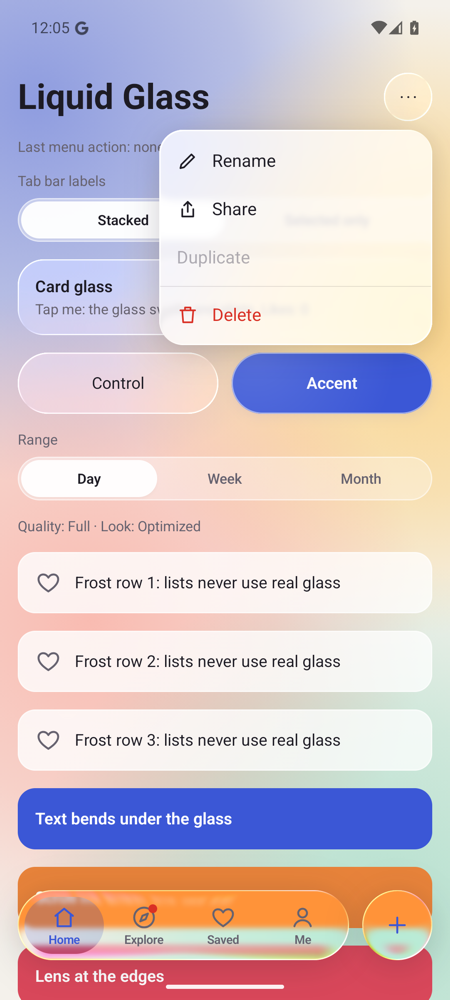
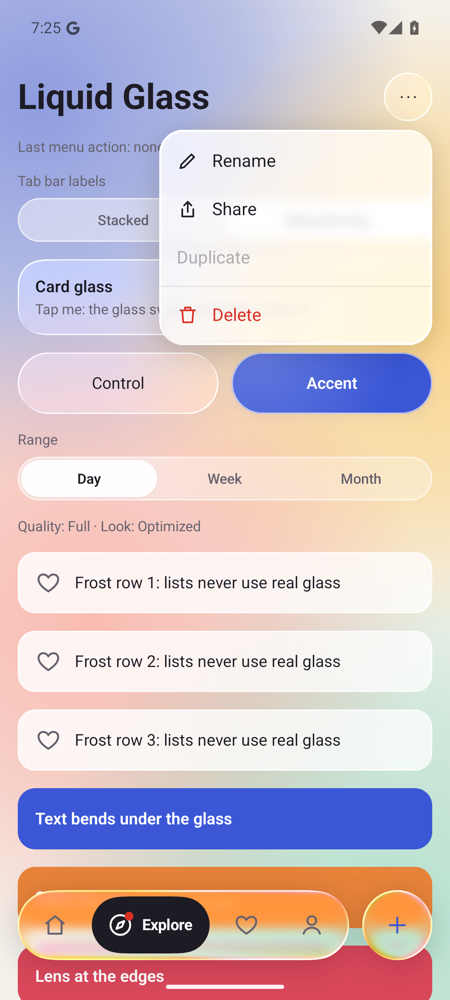
feat: iOS 26 style tab bar glass (C+), continuous corners
- Chrome preset: lens band 24/48 dp with chromatic aberration, 1 dp bright rim, 8 dp blur over
  sampled content, new GlassColors.chromeFill tint (dark glass in the dark theme); brighter
  glassStroke/glassHighlight, lighter light-theme shadow.
- GlassDefaults.ContinuousCardShape / ContinuousPillShape (Kyant continuous corners) for the tab
  bar, its droplets and LiquidSurface with real glass; frost keeps CardShape for lists.
- Stacked tab bar: selected tab uses GlassColors.tabSelectedFill / tabSelectedContent, readable in
  the dark theme.
- Engine: highlight reads corner radii of continuous shapes instead of assuming a capsule.
- README (EN/VI), CHANGELOG, NOTICE, screenshots.

diff --git a/liquidglass/src/main/kotlin/io/github/ntvien/liquidglass/LiquidGlassTheme.kt b/liquidglass/src/main/kotlin/io/github/ntvien/liquidglass/LiquidGlassTheme.kt
@@ -39,6 +39,9 @@ import androidx.compose.ui.platform.LocalContext
  * @property glassHighlight sheen of the frosted fallback.
  * @property glassShadow soft shadow under floating glass.
  * @property raisedFill light glass raised above a track: the selected segment of [io.github.ntvien.liquidglass.component.LiquidSegmentedControl].
+ * @property chromeFill tint of floating glass (tab bar): light enough to show what it refracts, strong enough for labels.
+ * @property tabSelectedFill droplet behind the selected tab of the stacked tab bar.
+ * @property tabSelectedContent icon and label of the selected tab of the stacked tab bar.
  */
 @Immutable
 public class GlassColors(
@@ -57,6 +60,9 @@ public class GlassColors(
     public val glassHighlight: Color,
     public val glassShadow: Color,
     public val raisedFill: Color,
+    public val chromeFill: Color,
+    public val tabSelectedFill: Color,
+    public val tabSelectedContent: Color,
 ) {
     /** Returns a copy with the given colors replaced. */
     public fun copy(
@@ -75,14 +81,19 @@ public class GlassColors(
         glassHighlight: Color = this.glassHighlight,
         glassShadow: Color = this.glassShadow,
         raisedFill: Color = this.raisedFill,
+        chromeFill: Color = this.chromeFill,
+        tabSelectedFill: Color = this.tabSelectedFill,
+        tabSelectedContent: Color = this.tabSelectedContent,
     ): GlassColors = GlassColors(
         content, contentMuted, accent, accentSoft, onAccent, selectedFill, selectedContent, badge,
         glassFill, glassFillStrong, glassFillOpaque, glassStroke, glassHighlight, glassShadow, raisedFill,
+        chromeFill, tabSelectedFill, tabSelectedContent,
     )
 
     private fun values(): List<Color> = listOf(
         content, contentMuted, accent, accentSoft, onAccent, selectedFill, selectedContent, badge,
         glassFill, glassFillStrong, glassFillOpaque, glassStroke, glassHighlight, glassShadow, raisedFill,
+        chromeFill, tabSelectedFill, tabSelectedContent,
     )
 
     override fun equals(other: Any?): Boolean = other is GlassColors && values() == other.values()
@@ -103,10 +114,14 @@ public class GlassColors(
             glassFill = Color(0x4DFFFFFF),
             glassFillStrong = Color(0xBFFFFFFF),
             glassFillOpaque = Color(0xF2FFFFFF),
-            glassStroke = Color(0x80FFFFFF),
-            glassHighlight = Color(0xA6FFFFFF),
-            glassShadow = Color(0x331D1B24),
+            // Bright rim and edge light, as on iOS 26.
+            glassStroke = Color(0xA6FFFFFF),
+            glassHighlight = Color(0xF2FFFFFF),
+            glassShadow = Color(0x2E000000),
             raisedFill = Color(0xF7FFFFFF),
+            chromeFill = Color(0x33FFFFFF),
+            tabSelectedFill = Color(0x293B57D6),
+            tabSelectedContent = Color(0xFF3B57D6),
         )
 
         /** Neutral colors for dark backgrounds. */
@@ -122,10 +137,15 @@ public class GlassColors(
             glassFill = Color(0x1FFFFFFF),
             glassFillStrong = Color(0x52262533),
             glassFillOpaque = Color(0xF2232230),
-            glassStroke = Color(0x33FFFFFF),
-            glassHighlight = Color(0x59FFFFFF),
+            glassStroke = Color(0x47FFFFFF),
+            glassHighlight = Color(0x99FFFFFF),
             glassShadow = Color(0x66000000),
             raisedFill = Color(0x40FFFFFF),
+            // Dark glass, as on iOS: 35 % of the dark background keeps light labels readable over busy content.
+            chromeFill = Color(0x59121119),
+            // The accent is too dark on a dark background: the selected tab is a light droplet with light content.
+            tabSelectedFill = Color(0x40F2EFF8),
+            tabSelectedContent = Color(0xFFF2EFF8),
         )
     }
 }

diff --git a/liquidglass/src/main/kotlin/io/github/ntvien/liquidglass/GlassStyle.kt b/liquidglass/src/main/kotlin/io/github/ntvien/liquidglass/GlassStyle.kt
@@ -8,6 +8,8 @@ import androidx.compose.ui.graphics.Color
 import androidx.compose.ui.graphics.Shape
 import androidx.compose.ui.unit.Dp
 import androidx.compose.ui.unit.dp
+import com.kyant.shapes.Capsule
+import com.kyant.shapes.RoundedRectangle
 
 /** Kind of glass. */
 public enum class GlassKind {
@@ -102,12 +104,15 @@ internal class GlassStyles(
         fun from(c: GlassColors, rich: Boolean): GlassStyles = GlassStyles(
             chrome = GlassStyle(
                 kind = GlassKind.Liquid,
-                blur = 4.dp, lensHeight = 18.dp, lensAmount = 36.dp,
+                // iOS 26 look: a thick lens band (24/48 dp) with chromatic aberration at the edge and a 1 dp bright rim.
+                // The 8 dp blur applies only when the glass samples the content: text behind it softens so the tab
+                // labels stay readable, while the edge still bends.
+                blur = 8.dp, lensHeight = 24.dp, lensAmount = 48.dp,
                 chromaticAberration = true, depthEffect = true,
-                // Lighter tint than cards so the refracted content shows through.
-                surface = c.glassFill.copy(alpha = c.glassFill.alpha * if (rich) 0.8f else 0.6f),
+                surface = c.chromeFill,
                 fallbackSurface = c.glassFillOpaque,
-                shadowRadius = 28.dp, shadowColor = c.glassShadow,
+                highlightWidth = 1.dp,
+                shadowRadius = 24.dp, shadowColor = c.glassShadow,
                 contentColor = c.content,
             ),
             card = GlassStyle(
@@ -183,12 +188,23 @@ public object GlassDefaults {
     @ReadOnlyComposable
     public fun frost(): GlassStyle = LocalGlassStyles.current.frost
 
-    /** 24 dp rounded corners for cards. Only [RoundedCornerShape]: path shapes cost ~9 ms/frame on mid-range devices. */
+    /** 24 dp rounded corners for cards in lists and repeated blocks. */
     public val CardShape: Shape = RoundedCornerShape(24.dp)
 
     /** 16 dp rounded corners for controls. */
     public val ControlShape: Shape = RoundedCornerShape(16.dp)
 
-    /** Fully rounded ends (tab bar, segmented control, pills, circles). */
+    /** Fully rounded ends (segmented control, pills, chips, circles). */
     public val PillShape: Shape = RoundedCornerShape(percent = 50)
+
+    /**
+     * iOS-style continuous corners (the curve eases into the straight edge), 24 dp: the default of
+     * [io.github.ntvien.liquidglass.component.LiquidSurface].
+     * Drawn with a path, so it costs more than [CardShape]: use it for a few large blocks per screen, never for list
+     * rows, chips or other repeated items.
+     */
+    public val ContinuousCardShape: Shape = RoundedRectangle(24.dp)
+
+    /** iOS-style continuous capsule: the tab bar and its droplet. Same cost rule as [ContinuousCardShape]. */
+    public val ContinuousPillShape: Shape = Capsule()
 }

diff --git a/liquidglass/src/main/kotlin/io/github/ntvien/liquidglass/component/LiquidTabBar.kt b/liquidglass/src/main/kotlin/io/github/ntvien/liquidglass/component/LiquidTabBar.kt
@@ -127,7 +127,7 @@ public enum class LiquidTabLabels {
  * @param labelStyle label style for [LiquidTabLabels.Stacked].
  * @param selectedLabelStyle label style inside the selected pill for [LiquidTabLabels.SelectedOnly].
  * @param action optional round button to the right of the bar, e.g. a [LiquidSurface] with
- *   [GlassDefaults.chrome], [GlassDefaults.PillShape] and size [LiquidTabBarDefaults.Height].
+ *   [GlassDefaults.chrome], [GlassDefaults.ContinuousPillShape] and size [LiquidTabBarDefaults.Height].
  */
 @OptIn(ExperimentalLayoutApi::class)
 @Composable
@@ -191,7 +191,7 @@ public fun LiquidTabBar(
                 LiquidSurface(
                     modifier = Modifier.matchParentSize(),
                     style = GlassDefaults.chrome(),
-                    shape = GlassDefaults.PillShape,
+                    shape = GlassDefaults.ContinuousPillShape,
                     contentPadding = PaddingValues(),
                 ) {}
                 when (labels) {
@@ -250,7 +250,7 @@ private fun BoxScope.StackedTabs(
                 .offset { IntOffset((droplet.value * slot[0]).roundToInt(), 0) }
                 .width(with(density) { slotPx.toDp() })
                 .height(ITEM_HEIGHT)
-                .droplet(droplet, GlassDefaults.PillShape, idleColor = LiquidGlassTheme.colors.accentSoft, blur = GlassDefaults.chrome().blur),
+                .droplet(droplet, GlassDefaults.ContinuousPillShape, idleColor = LiquidGlassTheme.colors.tabSelectedFill, blur = GlassDefaults.chrome().blur),
         )
         Row(Modifier.fillMaxWidth()) {
             tabs.forEachIndexed { index, tab ->
@@ -269,7 +269,7 @@ private fun BoxScope.StackedTabs(
                     contentAlignment = Alignment.Center,
                 ) {
                     StackedFace(tab, colors.contentMuted, colors.badge, showLabels, labelStyle, Modifier.graphicsLayer { alpha = 1f - highlight() })
-                    StackedFace(tab, colors.accent, colors.badge, showLabels, labelStyle, Modifier.graphicsLayer { alpha = highlight() })
+                    StackedFace(tab, colors.tabSelectedContent, colors.badge, showLabels, labelStyle, Modifier.graphicsLayer { alpha = highlight() })
                 }
             }
         }
@@ -309,7 +309,7 @@ private fun BoxScope.PillTabs(
             .padding(horizontal = 8.dp)
             .then(droplet.dragModifier(slotWidthPx = { slot[0] }, onSettle = choose)),
         content = {
-            Box(Modifier.droplet(droplet, GlassDefaults.PillShape, idleColor = LiquidGlassTheme.colors.selectedFill))
+            Box(Modifier.droplet(droplet, GlassDefaults.ContinuousPillShape, idleColor = LiquidGlassTheme.colors.selectedFill))
             tabs.forEachIndexed { index, tab ->
                 PillTab(
                     tab = tab,

diff --git a/liquidglass/src/main/kotlin/io/github/ntvien/liquidglass/component/LiquidSurface.kt b/liquidglass/src/main/kotlin/io/github/ntvien/liquidglass/component/LiquidSurface.kt
@@ -18,6 +18,7 @@ import androidx.compose.ui.semantics.Role
 import androidx.compose.ui.unit.Dp
 import androidx.compose.ui.unit.dp
 import io.github.ntvien.liquidglass.GlassDefaults
+import io.github.ntvien.liquidglass.GlassKind
 import io.github.ntvien.liquidglass.GlassStyle
 import io.github.ntvien.liquidglass.liquidGlass
 import io.github.ntvien.liquidglass.rememberGlassInteraction
@@ -35,7 +36,8 @@ import io.github.ntvien.liquidglass.rememberGlassInteraction
  * ```
  *
  * @param style preset from [GlassDefaults] (default [GlassDefaults.card]).
- * @param shape a rounded-corner shape (default [GlassDefaults.CardShape]).
+ * @param shape default [GlassDefaults.ContinuousCardShape] for real glass and [GlassDefaults.CardShape] for frost (lists).
+ *   Use a [androidx.compose.foundation.shape.RoundedCornerShape] for repeated items: continuous corners are a path.
  * @param contentPadding padding inside the glass.
  * @param onClick makes the surface a button.
  * @param onClickLabel describes the click for accessibility services.
@@ -44,7 +46,7 @@ import io.github.ntvien.liquidglass.rememberGlassInteraction
 public fun LiquidSurface(
     modifier: Modifier = Modifier,
     style: GlassStyle = GlassDefaults.card(),
-    shape: Shape = GlassDefaults.CardShape,
+    shape: Shape = if (style.kind == GlassKind.Frost) GlassDefaults.CardShape else GlassDefaults.ContinuousCardShape,
     contentPadding: PaddingValues = PaddingValues(16.dp),
     onClick: (() -> Unit)? = null,
     onClickLabel: String? = null,

diff --git a/liquidglass/src/main/kotlin/io/github/ntvien/liquidglass/internal/backdrop/highlight/HighlightStyle.kt b/liquidglass/src/main/kotlin/io/github/ntvien/liquidglass/internal/backdrop/highlight/HighlightStyle.kt
@@ -14,6 +14,7 @@ import androidx.compose.ui.graphics.Shape
 import androidx.compose.ui.graphics.drawscope.DrawScope
 import androidx.compose.ui.unit.LayoutDirection
 import androidx.compose.ui.util.fastCoerceAtMost
+import com.kyant.shapes.RoundedRectangularShape
 import io.github.ntvien.liquidglass.internal.backdrop.RuntimeShader
 import io.github.ntvien.liquidglass.internal.backdrop.RuntimeShaderCache
 import io.github.ntvien.liquidglass.internal.backdrop.internal.AmbientHighlightShaderString
@@ -119,6 +120,12 @@ internal interface HighlightStyle {
 private fun DrawScope.getCornerRadii(shape: Shape): FloatArray {
     val size = size
     val maxRadius = size.minDimension / 2f
+    // Continuous corners (RoundedRectangle, Capsule) are not CornerBasedShape: read their radii like effects/Lens.kt does,
+    // instead of treating them as a capsule (wrong rim on tall cards).
+    if (shape is RoundedRectangularShape) {
+        val corners = shape.corners(size, layoutDirection, this)
+        return floatArrayOf(corners.topLeft, corners.topRight, corners.bottomRight, corners.bottomLeft)
+    }
     val shape = shape as? CornerBasedShape ?: return FloatArray(4) { maxRadius }
     val isLtr = layoutDirection == LayoutDirection.Ltr
     val topLeft =

diff --git a/README.md b/README.md
@@ -109,7 +109,9 @@ fun BrandTheme(dark: Boolean, content: @Composable () -> Unit) {
 | Color | Used for |
 |---|---|
 | `content`, `contentMuted` | text and icons on glass, unselected tabs |
-| `accent`, `accentSoft`, `onAccent` | selected stacked tab, accent button |
+| `accent`, `accentSoft`, `onAccent` | accent button, accent glass |
+| `tabSelectedFill`, `tabSelectedContent` | selected tab of the stacked tab bar: droplet, icon and label |
+| `chromeFill` | tint of floating glass (tab bar): dark glass in the dark theme |
 | `selectedFill`, `selectedContent` | selected pill of the selected-only tab bar |
 | `raisedFill` | light glass raised above a track: the selected segment of the segmented control |
 | `badge` | tab badge dot |
@@ -232,7 +234,10 @@ Which preset where:
 | `GlassDefaults.accent()` | the primary button | — |
 | `GlassDefaults.frost()` | list rows, chips, input backgrounds | the tab bar |
 
-Shapes: `GlassDefaults.CardShape` (24 dp), `ControlShape` (16 dp), `PillShape` (fully rounded).
+Shapes: `GlassDefaults.CardShape` (24 dp), `ControlShape` (16 dp), `PillShape` (fully rounded), and the iOS-style
+continuous corners `ContinuousCardShape` (24 dp) and `ContinuousPillShape`. Continuous corners are drawn with a path:
+keep them for a few large blocks (the tab bar and its droplet, hero cards). `LiquidSurface` uses `ContinuousCardShape`
+by default for real glass and `CardShape` for frost.
 
 **Your own recipe**: copy a preset and change only what you need:
 
@@ -333,7 +338,7 @@ LiquidTabBar(
 
 | Labels | Looks like | Good for |
 |---|---|---|
-| `LiquidTabLabels.Stacked` (default) | every tab: icon above label, soft accent droplet behind the selected one | 4–5 tabs |
+| `LiquidTabLabels.Stacked` (default) | every tab: icon above label, soft tinted droplet behind the selected one | 4–5 tabs |
 | `LiquidTabLabels.SelectedOnly` | selected tab grows into a pill with icon + label, others icon only | 3–5 tabs with clear icons and short labels |
 
 **With Navigation Compose:**
@@ -456,7 +461,7 @@ val showSparkles = LiquidGlassTheme.quality != GlassQuality.Off
 | One `LiquidGlassTheme` for the app, one `LiquidGlassScene` per screen | Nest scenes, or put glass outside a scene and expect refraction |
 | Draw the background once (bitmap, photo) | Animate a full-screen gradient every frame |
 | ≤ 6 real glass elements per screen, frost for repeated items | Real glass on every list row |
-| `RoundedCornerShape` (`GlassDefaults` shapes) | Path-based or custom shapes on glass |
+| `RoundedCornerShape` for repeated items; continuous corners only on a few large blocks | Continuous or other path shapes on list rows and chips |
 | Keep text on glass at 4.5:1 contrast against the brightest part of the background | Put long text on a busy photo |
 | Measure a release build | Judge smoothness on a debug build |
 
@@ -479,7 +484,7 @@ val showSparkles = LiquidGlassTheme.quality != GlassQuality.Off
 | `GlassColors.light()` / `dark()` / `copy(...)` | Colors of glass and components |
 | `LiquidGlassScene(background, overlay, content)` | Frame of a screen with glass. One per screen |
 | `Modifier.liquidGlass(style, shape, interaction)` | Draws glass behind any element |
-| `GlassDefaults.chrome() / card() / control() / accent() / frost()` | Presets, plus `CardShape`, `ControlShape`, `PillShape` |
+| `GlassDefaults.chrome() / card() / control() / accent() / frost()` | Presets, plus `CardShape`, `ControlShape`, `PillShape`, `ContinuousCardShape`, `ContinuousPillShape` |
 | `GlassStyle`, `GlassKind` | Make your own recipe (start from a preset and `copy`) |
 | `rememberGlassInteraction()` | Press effect: swell, tilt toward the finger, glint |
 | `LiquidSurface` | A glass block; with `onClick` it is a button |
@@ -559,8 +564,9 @@ Cold start, time to initial display (median of 10 starts):
 
 - At most **6 real glass elements per screen**, the tab bar included. Repeated items (list rows, chips) use
   `GlassDefaults.frost()`, which never samples the background.
-- Only `RoundedCornerShape`: the lens, highlight and inner shadow are computed for rounded corners; other shapes are
-  clipped with a path on every frame.
+- `RoundedCornerShape` for anything repeated or scrolling: other shapes are clipped with a path on every frame. The
+  continuous shapes (`ContinuousCardShape`, `ContinuousPillShape`) are for a few large blocks only: the tab bar and its
+  droplet, hero cards.
 - Draw the `LiquidGlassScene` background **once** (for example into a quarter-resolution bitmap, see
   `sample/SampleArt.kt`). A smooth background also means the glass needs no blur.
 - Over budget? Pass `overlaySamplesContent = false` first: it is the biggest single saving (see above).

diff --git a/README.vi.md b/README.vi.md
@@ -111,7 +111,9 @@ fun BrandTheme(dark: Boolean, content: @Composable () -> Unit) {
 | Màu | Dùng cho |
 |---|---|
 | `content`, `contentMuted` | chữ và icon trên kính, tab chưa chọn |
-| `accent`, `accentSoft`, `onAccent` | tab đang chọn (kiểu Stacked), nút màu nhấn |
+| `accent`, `accentSoft`, `onAccent` | nút màu nhấn, kính màu nhấn |
+| `tabSelectedFill`, `tabSelectedContent` | tab đang chọn của thanh tab Stacked: giọt, icon và chữ |
+| `chromeFill` | lớp phủ của kính nổi (thanh tab): kính tối ở giao diện tối |
 | `selectedFill`, `selectedContent` | viên đang chọn của thanh tab SelectedOnly |
 | `raisedFill` | viên kính sáng nổi trên rãnh: ô đang chọn của tab trong màn |
 | `badge` | chấm báo trên tab |
@@ -231,7 +233,9 @@ Dùng kiểu kính nào ở đâu:
 | `GlassDefaults.accent()` | nút chính | — |
 | `GlassDefaults.frost()` | dòng danh sách, chip, nền ô nhập | thanh tab |
 
-Hình: `GlassDefaults.CardShape` (bo 24 dp), `ControlShape` (bo 16 dp), `PillShape` (bo tròn hẳn).
+Hình: `GlassDefaults.CardShape` (bo 24 dp), `ControlShape` (bo 16 dp), `PillShape` (bo tròn hẳn), và góc liên tục kiểu
+iOS `ContinuousCardShape` (24 dp), `ContinuousPillShape`. Góc liên tục vẽ bằng path: chỉ dùng cho vài khối lớn (thanh
+tab và giọt của nó, thẻ lớn). `LiquidSurface` mặc định dùng `ContinuousCardShape` cho kính thật, `CardShape` cho frost.
 
 **Tự làm kiểu kính:** chép một kiểu có sẵn rồi đổi phần cần đổi:
 
@@ -332,7 +336,7 @@ LiquidTabBar(
 
 | Kiểu nhãn | Trông thế nào | Hợp với |
 |---|---|---|
-| `LiquidTabLabels.Stacked` (mặc định) | mọi tab: icon trên, chữ dưới; giọt màu nhấn nhạt sau tab đang chọn | 4–5 tab |
+| `LiquidTabLabels.Stacked` (mặc định) | mọi tab: icon trên, chữ dưới; giọt màu nhạt sau tab đang chọn | 4–5 tab |
 | `LiquidTabLabels.SelectedOnly` | tab đang chọn nở thành viên có icon + chữ, tab khác chỉ icon | 3–5 tab, icon rõ nghĩa, nhãn ngắn |
 
 **Dùng với Navigation Compose:**
@@ -454,7 +458,7 @@ val showSparkles = LiquidGlassTheme.quality != GlassQuality.Off
 | Một `LiquidGlassTheme` cho cả app, một `LiquidGlassScene` mỗi màn | Lồng scene, hoặc đặt kính ngoài scene mà mong có khúc xạ |
 | Vẽ nền một lần (bitmap, ảnh chụp) | Animate gradient toàn màn mỗi khung |
 | ≤ 6 khối kính thật mỗi màn, phần tử lặp lại dùng frost | Kính thật cho từng dòng danh sách |
-| `RoundedCornerShape` (các hình trong `GlassDefaults`) | Hình vẽ bằng path cho kính |
+| `RoundedCornerShape` cho phần tử lặp; góc liên tục chỉ cho vài khối lớn | Góc liên tục hay hình path khác cho dòng danh sách, chip |
 | Chữ trên kính đạt tương phản 4.5:1 so với điểm sáng nhất của nền | Đặt đoạn chữ dài trên ảnh rối |
 | Đo trên bản release | Đánh giá độ mượt trên bản debug |
 
@@ -481,7 +485,7 @@ Tóm tắt:
   - `Off`: Android ≤ 11, máy ít RAM, Tiết kiệm pin, hoặc `reduceEffects`.
 - **Hiệu năng:**
   - tối đa 6 khối kính thật mỗi màn;
-  - chỉ dùng `RoundedCornerShape`;
+  - `RoundedCornerShape` cho phần tử lặp; góc liên tục chỉ cho vài khối lớn (thanh tab, thẻ lớn);
   - nền vẽ một lần;
   - bóng chỉ cho thanh tab và nút chính;
   - thanh tab khúc xạ nội dung đang cuộn là phần tốn nhất: nếu vượt ngân sách, truyền `overlaySamplesContent = false`

diff --git a/CHANGELOG.md b/CHANGELOG.md
@@ -21,6 +21,14 @@ while the version is 0.x the public API may still change between minor versions.
   a small bounce, items appear one after another, drag the finger across the items to choose, tap outside or Back
   closes it by shrinking back into the button. Inside a `LiquidGlassScene` it is drawn as real glass above the tab bar;
   outside a scene it opens in a popup with the frosted look.
+- Tab bar glass after iOS 26: thicker lens band (24/48 dp) with chromatic aberration, 1 dp bright rim, 8 dp blur over
+  the content behind it, new `GlassColors.chromeFill` tint (dark glass in the dark theme). Brighter rims on all glass
+  (`glassStroke`, `glassHighlight`), lighter shadow in the light theme.
+- `GlassDefaults.ContinuousCardShape` and `ContinuousPillShape`: iOS-style continuous corners. The tab bar, its droplets
+  and `LiquidSurface` with real glass use them by default; frost surfaces keep `CardShape`.
+- Stacked tab bar: the selected tab uses the new `GlassColors.tabSelectedFill` / `tabSelectedContent`; in the dark theme
+  the selected label in the accent color was hard to read.
+- Fix: on glass with continuous corners the bright rim was drawn as a capsule.
 - `LiquidGlassTheme(overlaySamplesContent)`: floating glass (tab bar, menus) now refracts the scrolling content on every
   Android 13+ device by default, not only with `GlassLook.Rich`. Pass `false` to sample only the background
   (~10 ms/frame cheaper while scrolling on mid-range devices).
